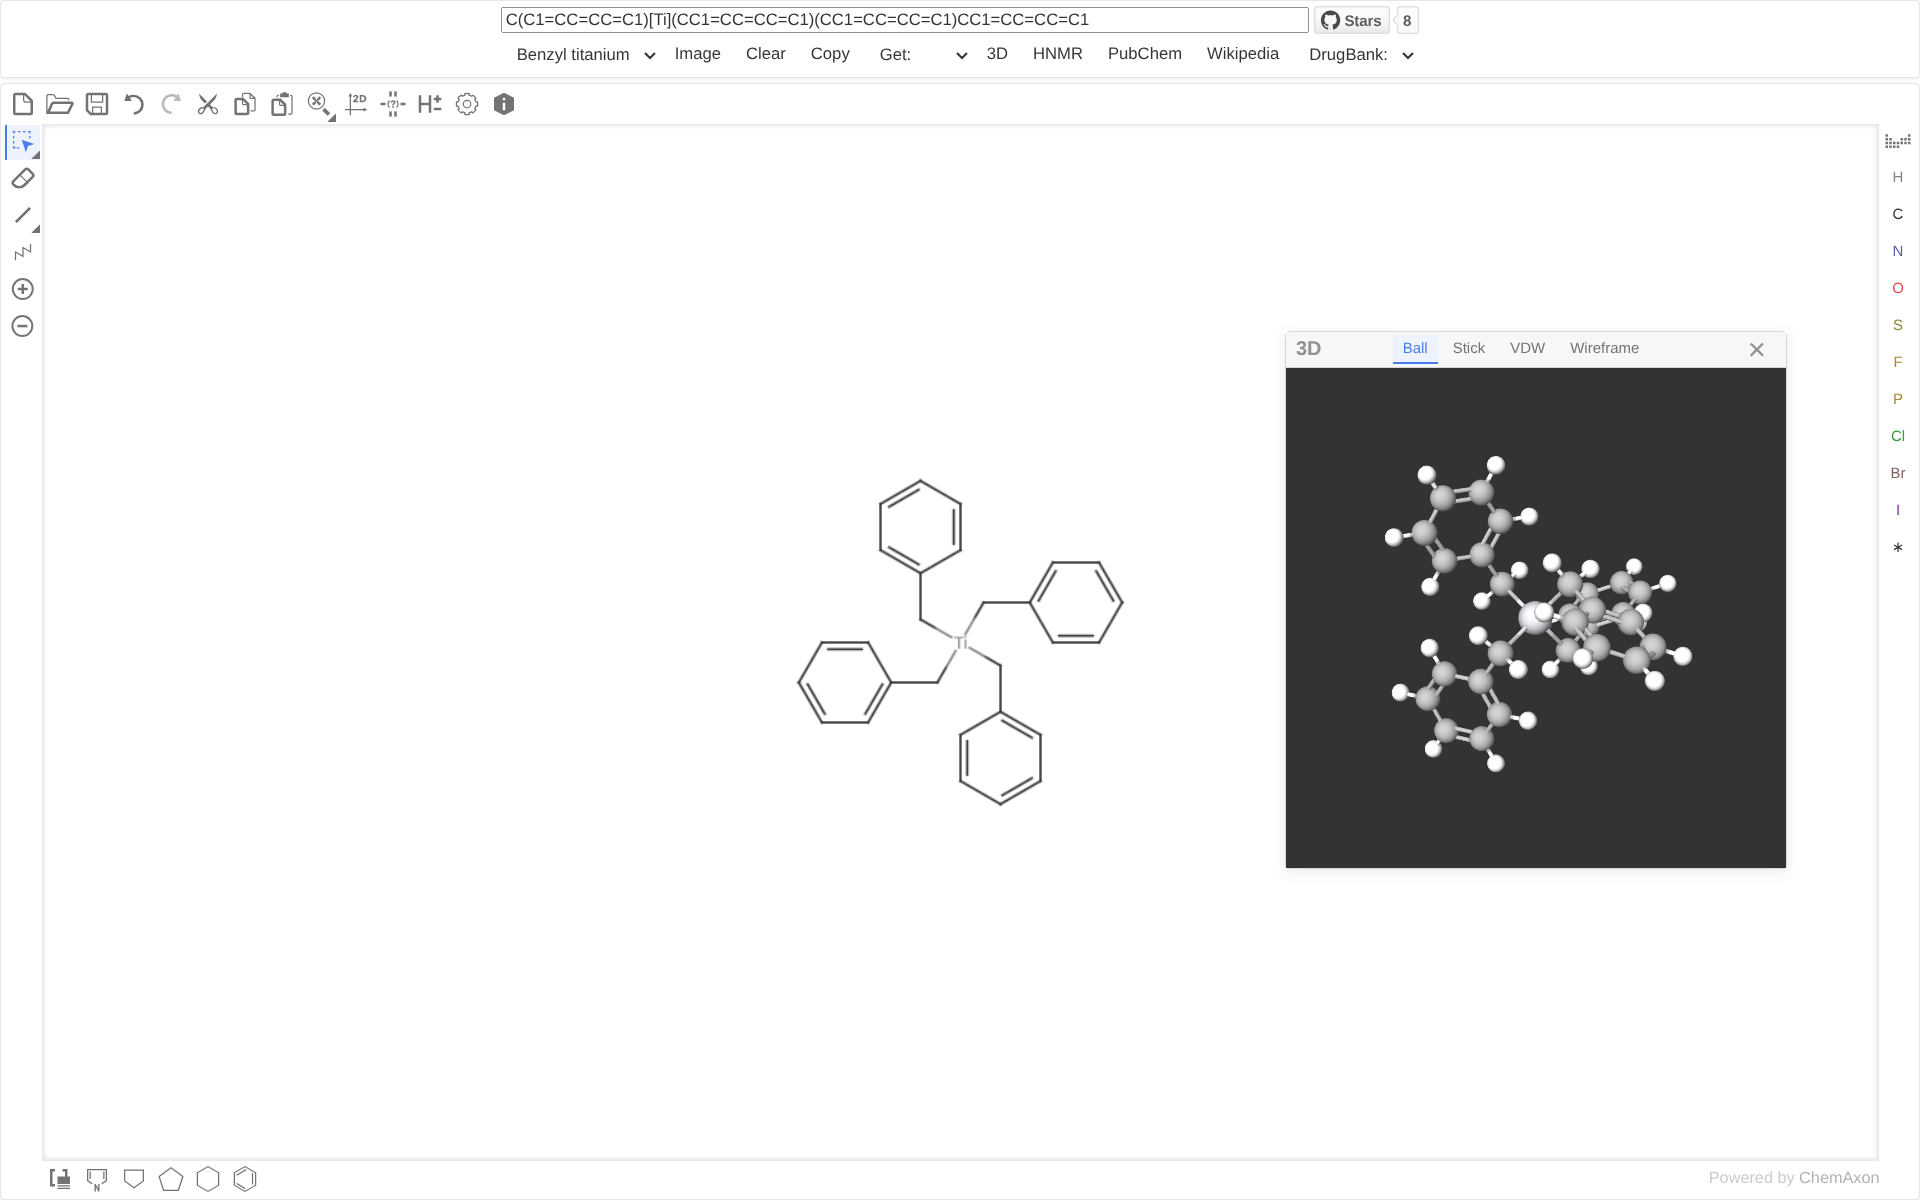
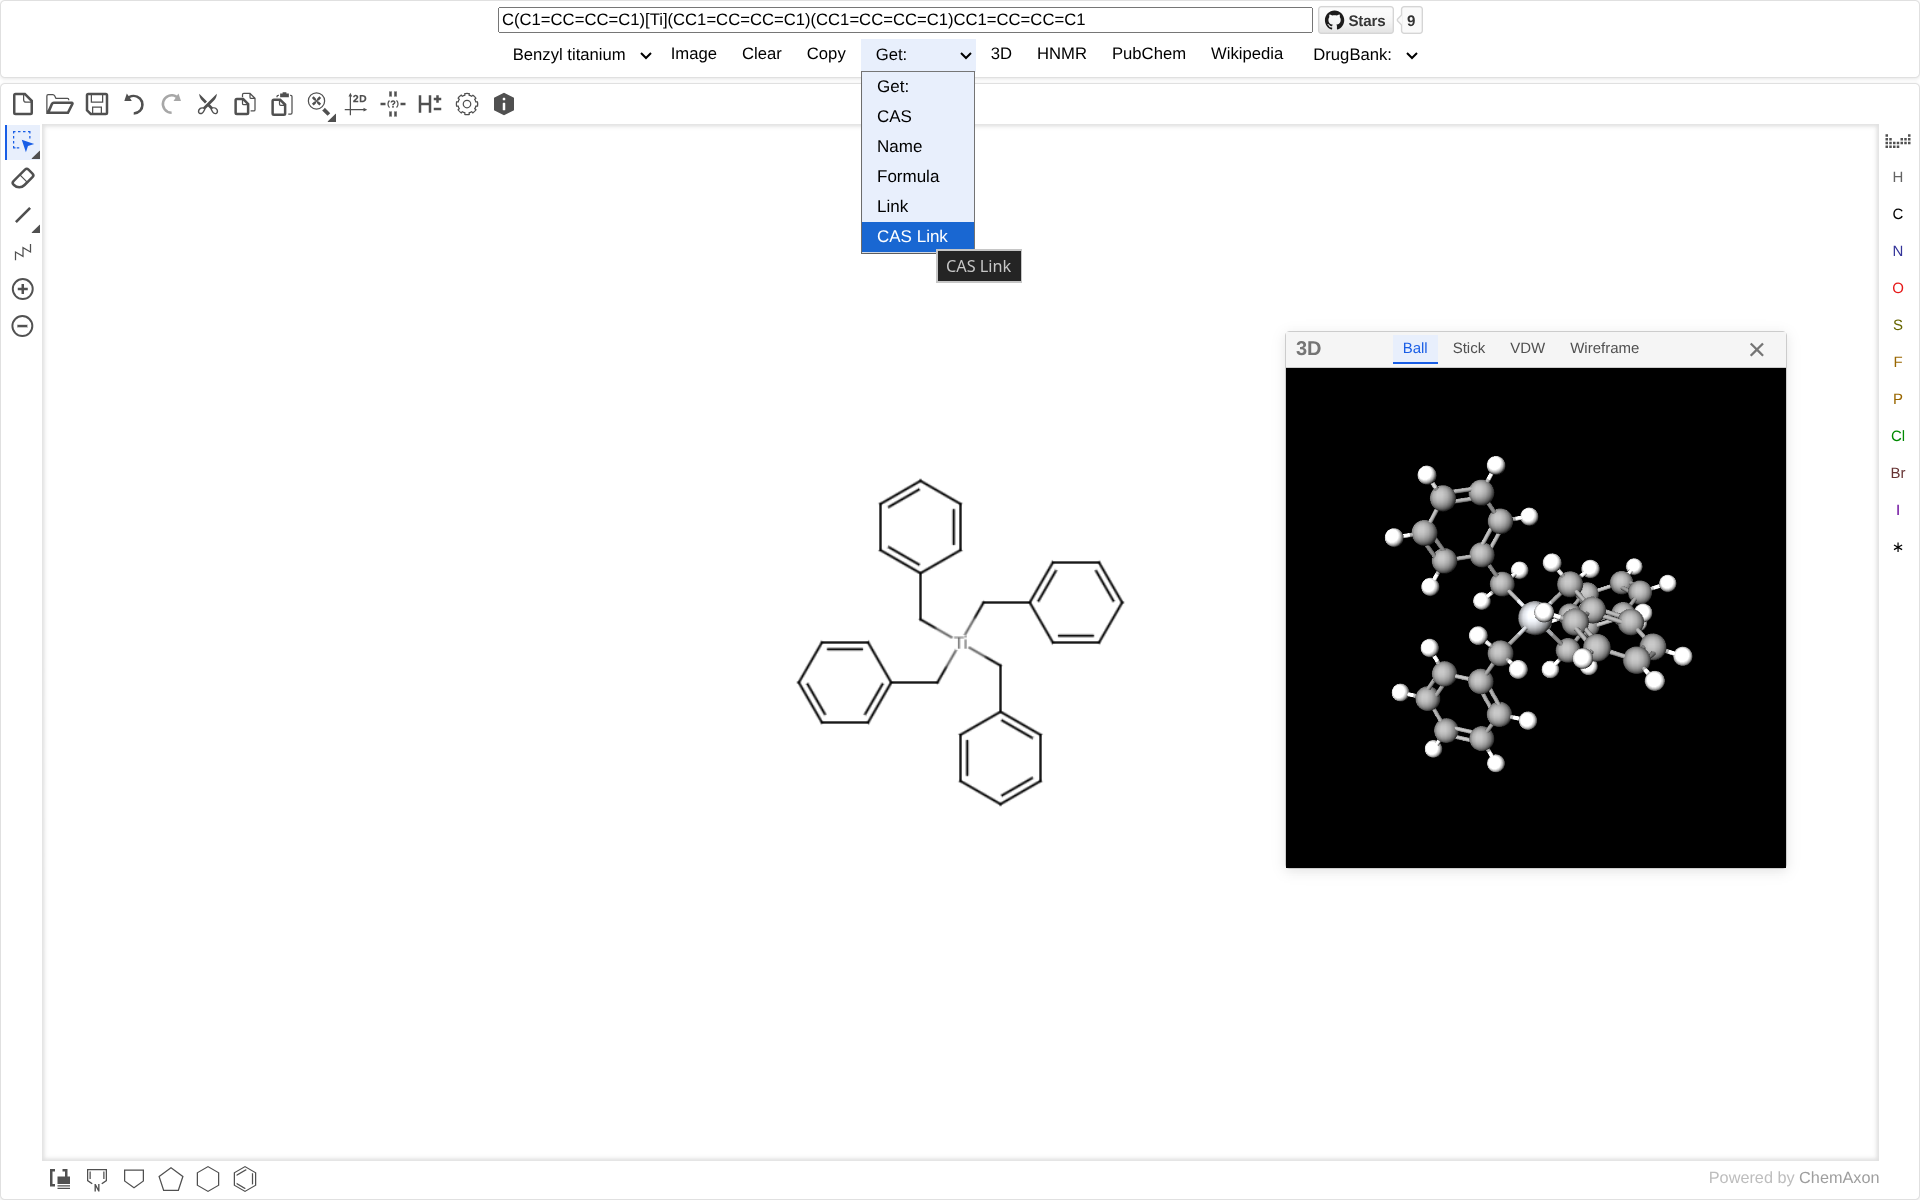
Feat: support passing URL input cas and get cas link

diff --git a/src/components/ControlPanel.vue b/src/components/ControlPanel.vue
@@ -49,7 +49,8 @@
           <option value="cas">CAS</option>
           <option value="iupac" title="IUPACName">Name</option>
           <option value="formula" title="Molecular Formula">Formula</option>
-          <option value="link" title="Compound Link">Link</option>
+          <option value="link" title="Short SMILES Link">Link</option>
+          <option value="cas_link" title="CAS Link">CAS Link</option>
         </select>
         <button @click="handle3DView" :disabled="!smilesValue">3D</button>
         <button @click="handleHNMR" :disabled="!smilesValue">HNMR</button>
@@ -202,32 +203,35 @@ export default {
       if (!this.smilesValue) return;
       
       let textToCopy = this.smilesValue;
-      
+      const label = type === 'link' ? 'Link' : 'SMILES';
+
       try {
         if (type === 'link') {
-          const originalUrl = new URL(window.location.href);
+          const originalUrl = new URL(window.location.origin + window.location.pathname);
           originalUrl.searchParams.set('smiles', this.smilesValue);
           const longUrl = originalUrl.toString();
           
           try {
-            textToCopy = await generateSmilesLink(this.smilesValue);
-            if (textToCopy === longUrl) {
-              throw new Error('Short URL service returned original URL');
+            const shortUrl = await generateSmilesLink(this.smilesValue);
+            
+            if (shortUrl && shortUrl !== longUrl) {
+              await this.copyWithFeedback(label, shortUrl);
+            } else {
+              throw new Error();
             }
-            await navigator.clipboard.writeText(textToCopy);
-            alert('短链接已复制到剪贴板');
-          } catch (apiError) {
-            console.error('短链接生成服务不可用:', apiError);
-            textToCopy = longUrl;
-            await navigator.clipboard.writeText(textToCopy);
-            alert('短链接生成服务暂时不可用，已复制原链接到剪贴板');
+          } catch (_) {
+            const ok = await this.copyTextToClipboard(longUrl);
+            if (ok) {
+              this.notifyUser('短链接生成服务暂时不可用，已复制原链接到剪贴板', 'success');
+            } else {
+              this.notifyUser(this.messages.copyFail(label, longUrl), 'error');
+            }
           }
         } else {
-          await navigator.clipboard.writeText(textToCopy);
+          await this.copyWithFeedback(label, textToCopy);
         }
-      } catch (error) {
-        console.error('复制失败:', error);
-        alert('复制失败，请手动复制');
+      } catch (_) {
+        this.notifyUser(this.messages.copyFail(label, textToCopy), 'error');
       }
     },
     
@@ -417,7 +421,33 @@ export default {
         } finally {
           this.loading = false;
         }
-      } else if (value === 'cas' || value === 'iupac' || value === 'formula') {
+      } 
+      else if (value === 'cas_link') {
+        this.loading = true;
+        try {
+          const cid = await this.ensureCID();
+          if (!cid) {
+            this.notifyUser(this.messages.compoundNotFound, 'warning');
+            return;
+          }
+          const cas = await getCASByCID(cid);
+          if (!cas) {
+            this.notifyUser(this.messages.casNotFound, 'warning');
+            return;
+          }
+          
+          const url = new URL(window.location.origin + window.location.pathname);
+          url.searchParams.set('cas', cas);
+          const casLink = url.toString();
+          
+          await this.copyWithFeedback('CAS Link', casLink);
+        } catch (error) {
+          this.notifyUser(this.messages.fetchFail, 'error');
+        } finally {
+          this.loading = false;
+        }
+      }
+      else if (value === 'cas' || value === 'iupac' || value === 'formula') {
         this.handleGet(value);
       }
       event.target.value = '';
@@ -491,7 +521,7 @@ export default {
   display: flex;
   align-items: center;
   width: 100%;
-  max-width: 734px;
+  max-width: 740px;
   gap: 4px;
 }
 
@@ -517,7 +547,7 @@ export default {
   gap: 4px;
   flex-wrap: wrap;
   width: 100%;
-  max-width: 734px;
+  max-width: 740px;
 }
 
 /* Button and select styles */
@@ -546,7 +576,7 @@ export default {
   z-index: 9999;
 }
 
-@media screen and (max-width: 743px) {
+@media screen and (max-width: 749px) {
   .button-group {
     flex-direction: row;
     flex-wrap: wrap;

diff --git a/src/utils/marvinBridge.js b/src/utils/marvinBridge.js
@@ -122,14 +122,20 @@ async function _loadInitialSmilesFromUrlIfPresent() {
 
   const urlParams = new URLSearchParams(window.location.search);
   const smiles = urlParams.get('smiles');
-  if (!smiles) {
-    return;
-  }
+  const cas = urlParams.get('cas');
 
   try {
-    await _sketcher.importStructure('smiles', smiles);
-    _notifySmilesChange(smiles);
-  } catch (_) {}
+    if (cas) {
+      await _sketcher.importStructure(null, cas.trim());
+      const currentSmiles = await _sketcher.exportStructure('smiles');
+      _notifySmilesChange(currentSmiles);
+    } else if (smiles) {
+      await _sketcher.importStructure('smiles', smiles.trim());
+      _notifySmilesChange(smiles);
+    }
+  } catch (err) {
+    console.error("Failed to load initial structure from URL", err);
+  }
 }
 
 export function onSmilesChange(callback) {
@@ -206,6 +212,22 @@ export async function importSmiles(smiles) {
   try {
     await sketcher.importStructure('smiles', value);
     _notifySmilesChange(value);
+  } catch (_) {}
+}
+
+export async function importCas(cas) {
+  let sketcher;
+  try {
+    sketcher = await whenReady();
+  } catch (_) {
+    return;
+  }
+  if (!sketcher || !cas) return;
+
+  try {
+    await sketcher.importStructure(null, cas.trim());
+    const currentSmiles = await sketcher.exportStructure('smiles');
+    _notifySmilesChange(currentSmiles);
   } catch (_) {}
 }
 

diff --git a/README_en.md b/README_en.md
@@ -2,7 +2,6 @@
 
 # StructuredSearch
 
-
 <p align="center">
     <a href="README.md">简体中文</a> | English
 </p>
@@ -35,7 +34,9 @@ Powered by [Chemaxon](https://chemaxon.com)
 ## Functionality
 
 - Real-time conversion of smiles and mol
-- Supports passing smiles via URL https://structuredsearch.pages.dev/?smiles=C1=CC=CC=C1
+- URL input
+    - smiles https://structuredsearch.pages.dev/?smiles=CCCCCCCCC=O
+    - cas https://structuredsearch.pages.dev/?cas=124-19-6
 - Example:
     - Benzyl titanium
     - Quinine
@@ -49,7 +50,8 @@ Powered by [Chemaxon](https://chemaxon.com)
         - If the compound exists in the PubChem database, it is acquire directly
         - If the compound does not exist in the PubChem database, it is obtained through MarvinJS's naming service
     - Molecular Formula
-    - Compound Link
+    - (Short SMILES)Link
+    - CAS Link
 - 3D visualization
     - supports real-time updates with mol and smiles
     - types

diff --git a/README.md b/README.md
@@ -34,7 +34,9 @@ Powered by [Chemaxon](https://chemaxon.com)
 ## 功能
 
 - smiles与结构式互相转换
-- 支持smiles通过URL传入 https://structuredsearch.pages.dev/?smiles=C1=CC=CC=C1
+- URL传入
+    - smiles https://structuredsearch.pages.dev/?smiles=CCCCCCCCC=O
+    - cas https://structuredsearch.pages.dev/?cas=124-19-6
 - Example:
     - Benzyl titanium (苄钛)
     - Quinine (奎宁)
@@ -48,7 +50,8 @@ Powered by [Chemaxon](https://chemaxon.com)
         - 当pubchem数据库中存在该化合物则直接获取
         - 当pubchem数据库中不存在该化合物则通过marvinjs的命名服务获取
     - Molecular Formula (分子式)
-    - Compound Link
+    - (Short SMILES)Link
+    - CAS Link
 - 3D可视化
     - 可与结构式，smiles进行实时更新
     - 种类
